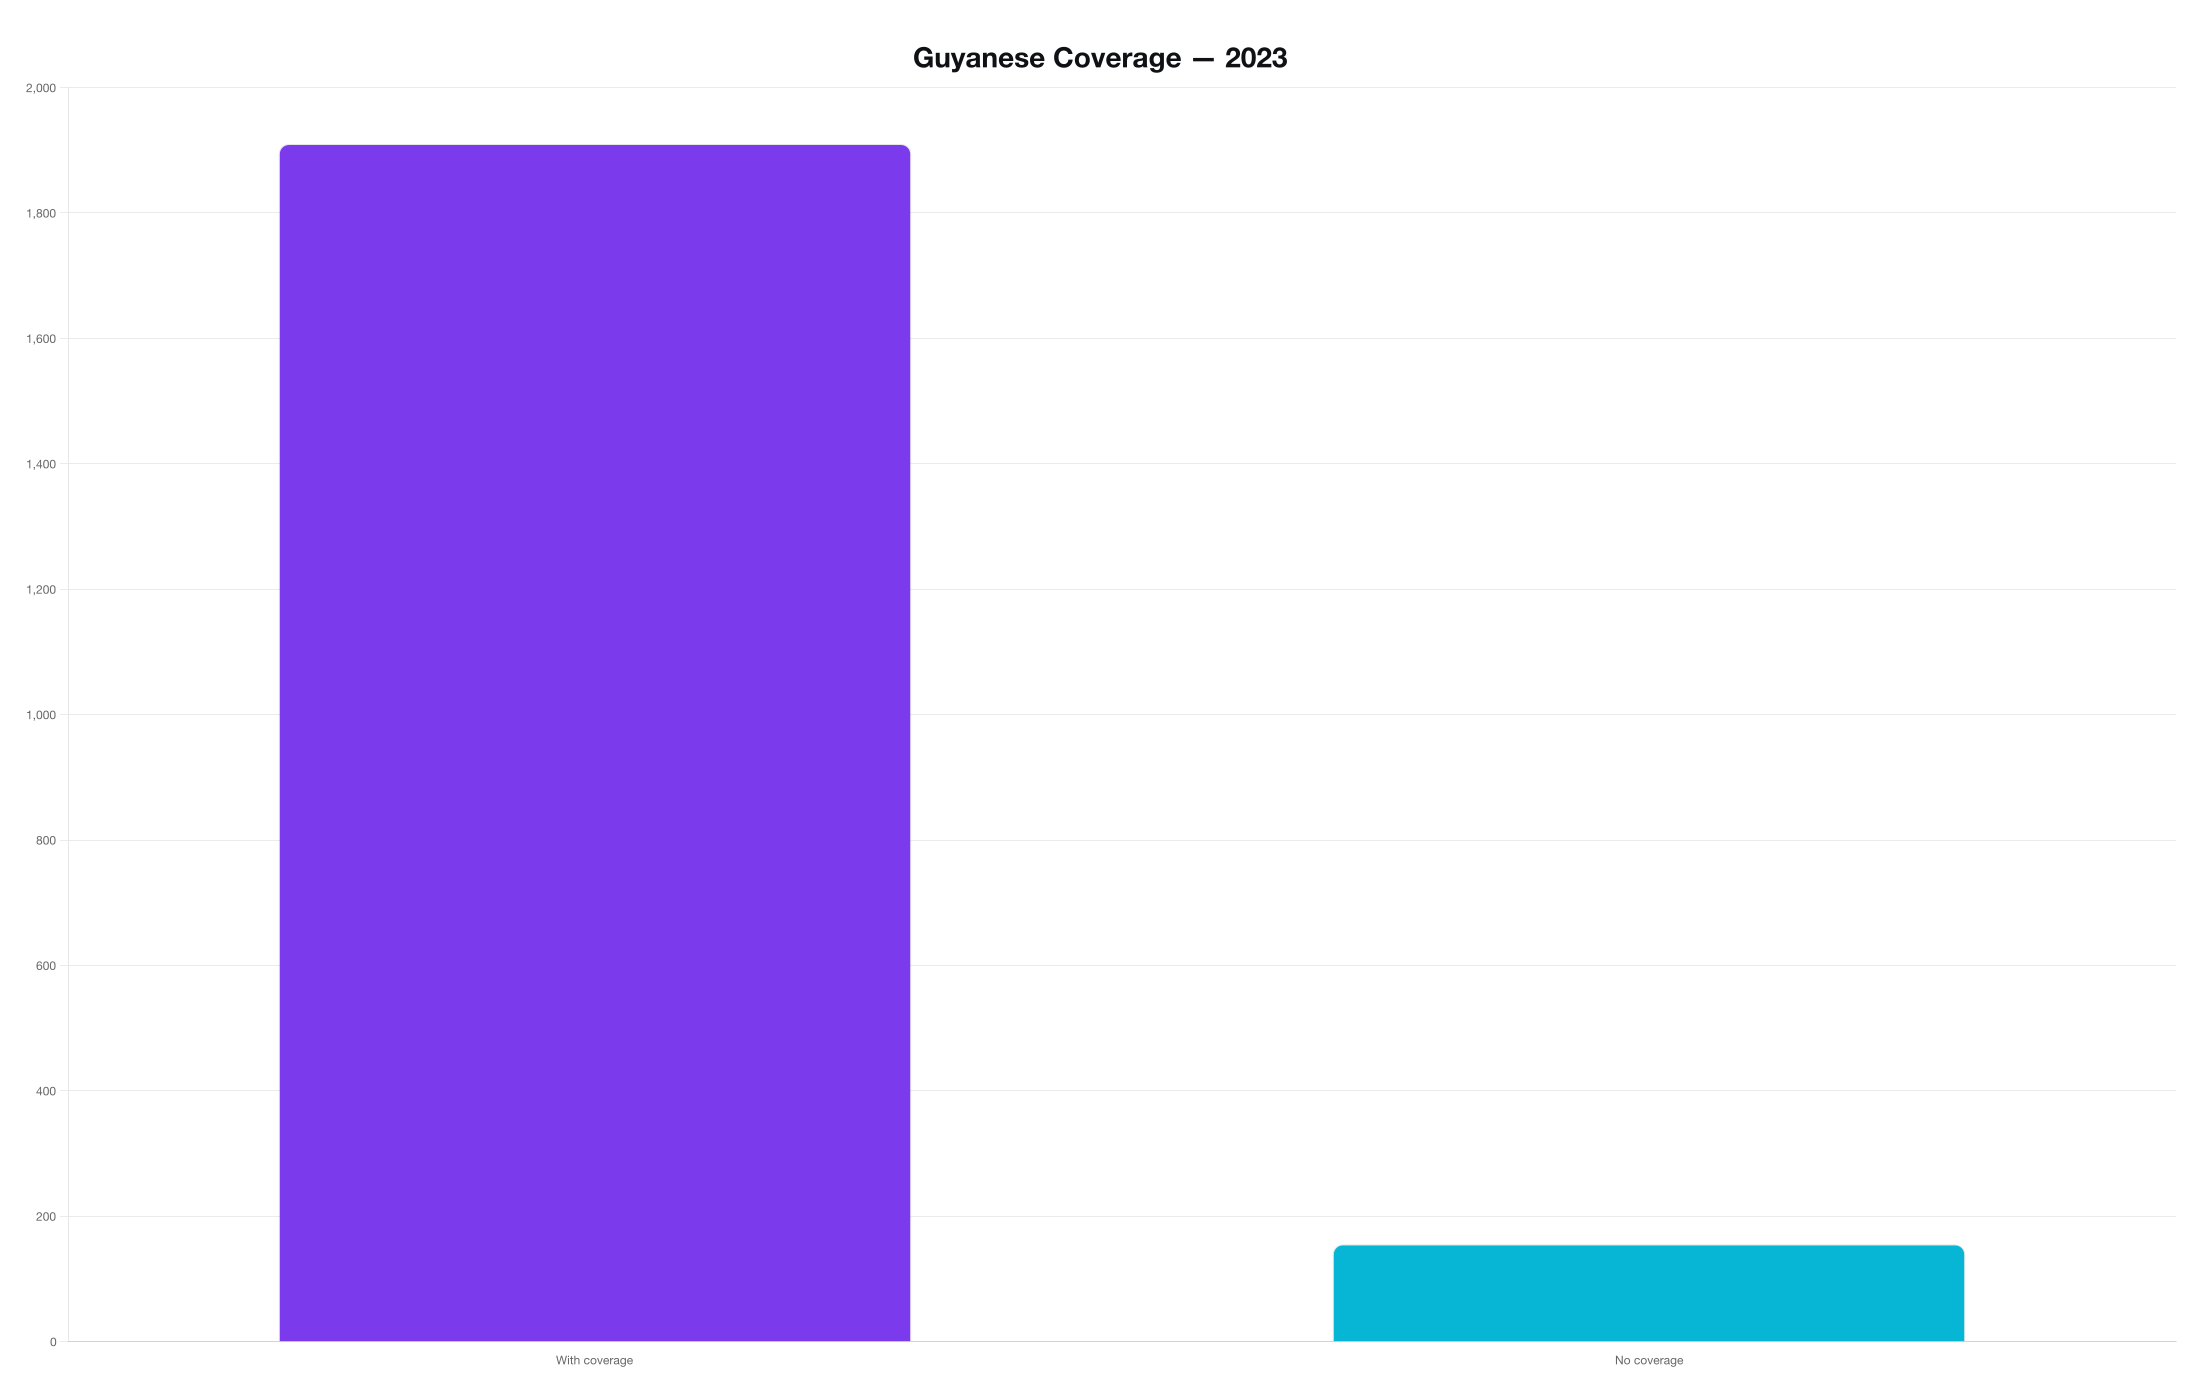
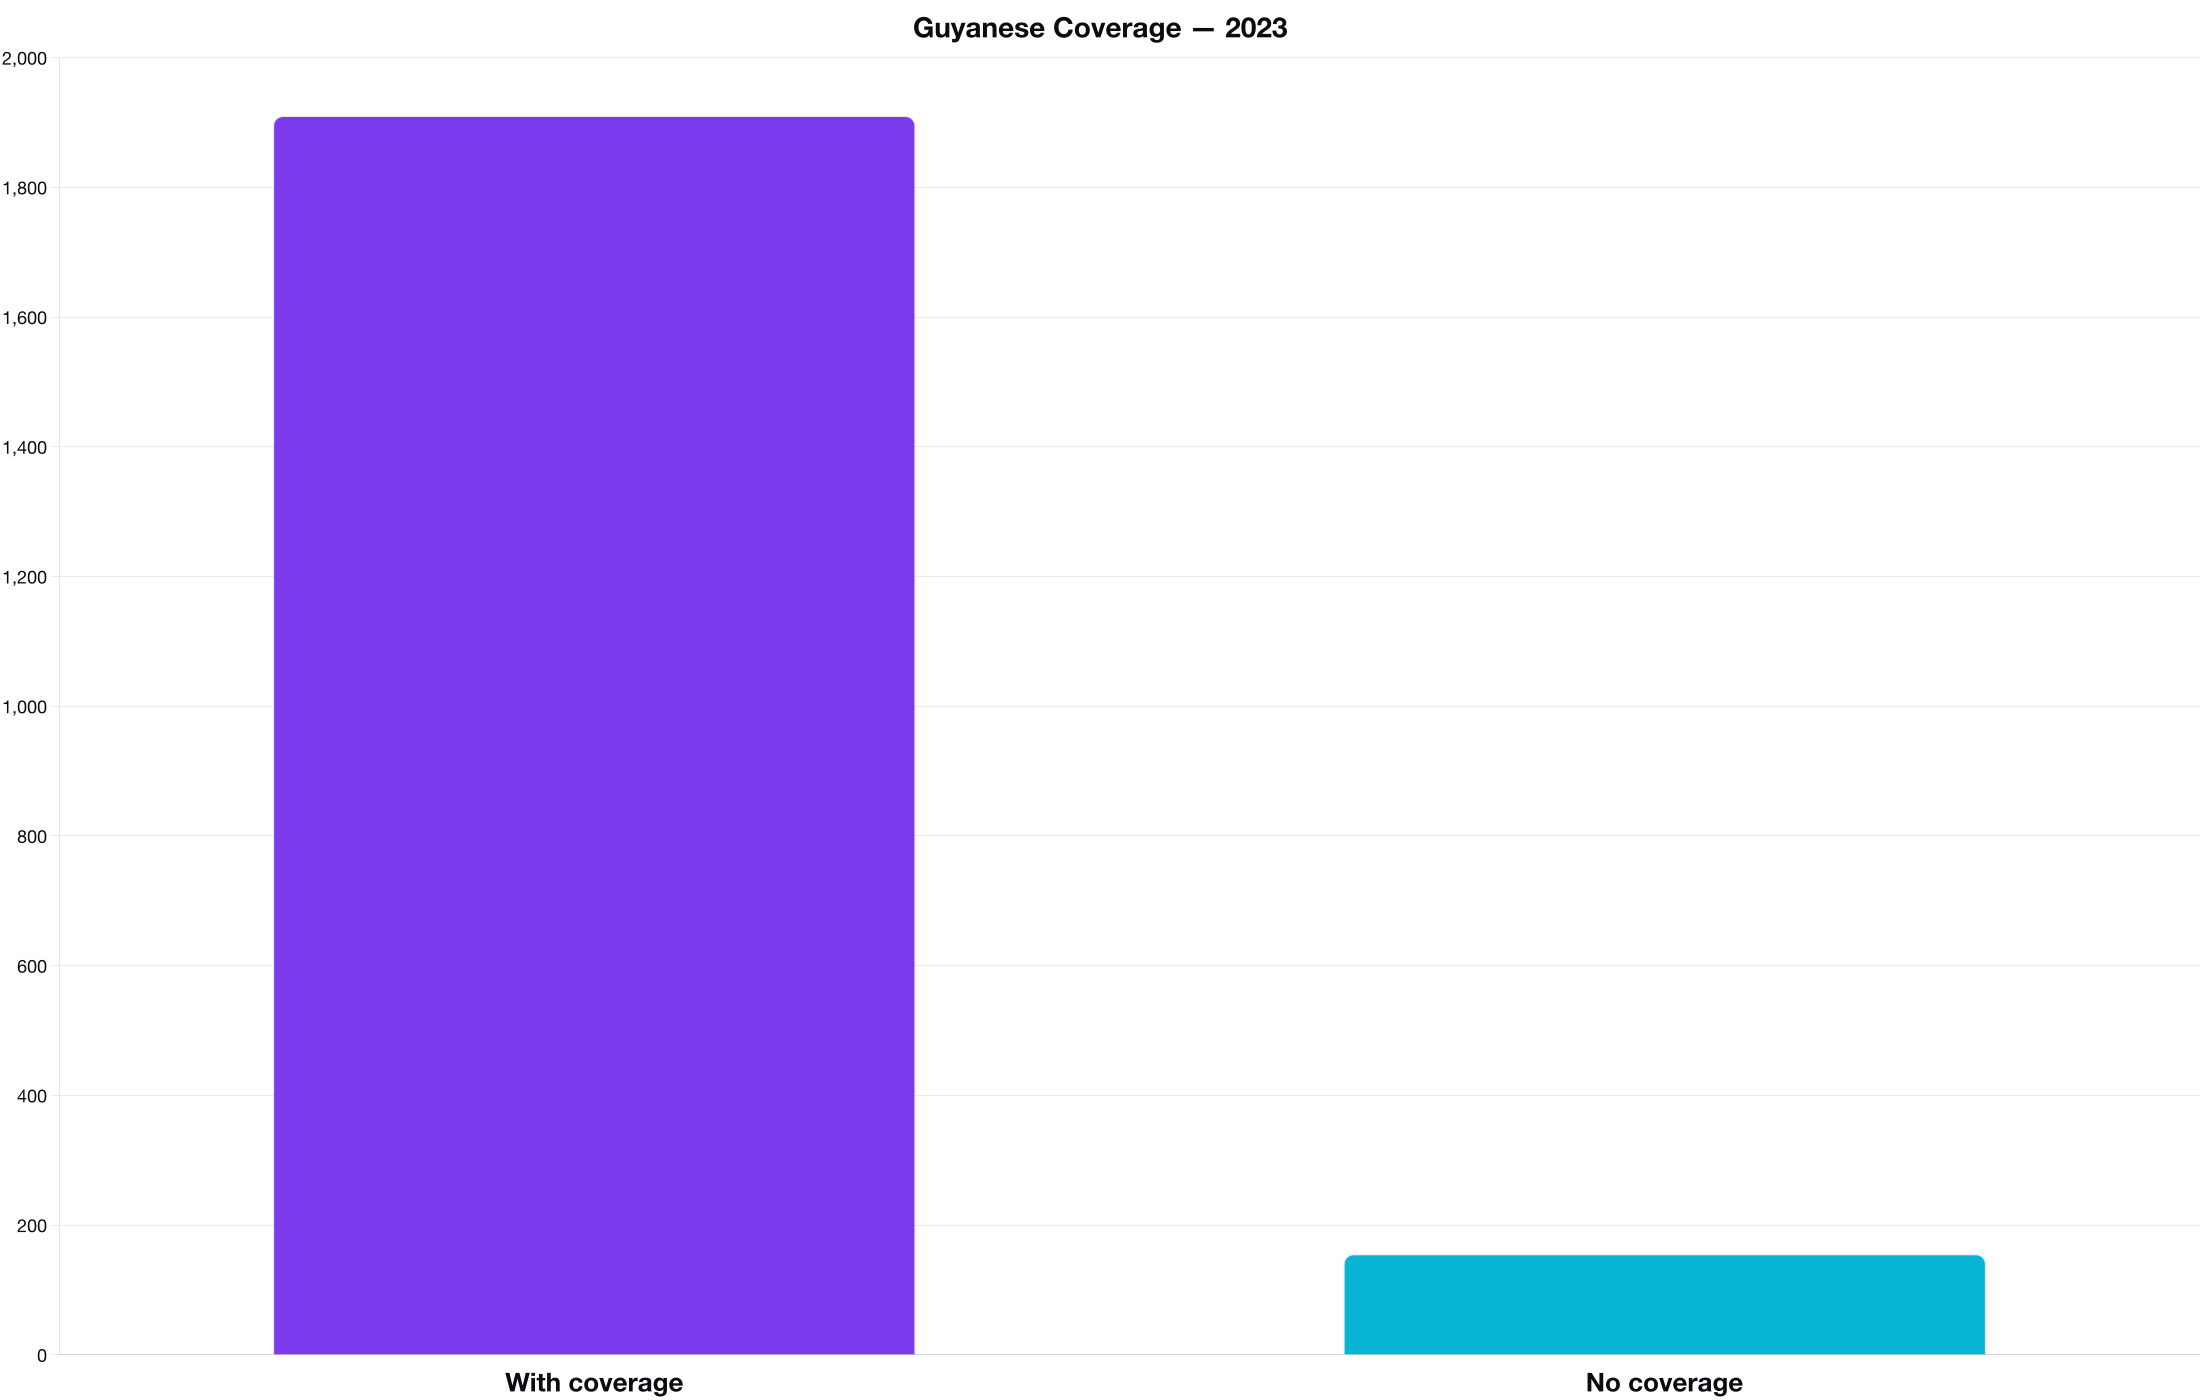
moregraphs

diff --git a/economy_healthcare/outputs/graphsinjs/make-charts.js b/economy_healthcare/outputs/graphsinjs/make-charts.js
@@ -1,4 +1,7 @@
-// make-charts.js  (ESM version for "type":"module")
+// make-charts.js — ESM (works with "type":"module")
+// Generates high-res, transparent PNG bar charts for three CSVs (Canva-ready)
+// Now with MUCH larger axis labels (category tick labels) without changing image size.
+
 import fs from "fs";
 import path from "path";
 import { fileURLToPath } from "url";
@@ -7,14 +10,22 @@ import { ChartJSNodeCanvas } from "chartjs-node-canvas";
 import Chart from "chart.js/auto";
 import ChartDataLabels from "chartjs-plugin-datalabels";
 
-// Register plugin for Chart.js v4
+// --- Register plugins & set dark text defaults ---
 Chart.register(ChartDataLabels);
+const TEXT = "#0b0c10"; // dark text everywhere
+Chart.defaults.color = TEXT;
+Chart.defaults.font.family =
+  'Inter, -apple-system, system-ui, "Segoe UI", Roboto, "Helvetica Neue", Arial';
 
-// Resolve this file's folder
+// >>> New: font sizes just for axis labels <<<
+const CAT_TICK_FONT_SIZE = 26; // category-axis tick labels (the labels beside/under each bar)
+const VAL_TICK_FONT_SIZE = 18; // value-axis tick labels (numbers on the scale)
+
+// --- Paths ---
 const __filename = fileURLToPath(import.meta.url);
 const __dirname = path.dirname(__filename);
 
-// ---- INPUT FILES (put your CSVs next to this script, or change paths) ----
+// Put your CSVs next to this script or edit these paths:
 const FILES = [
   path.resolve(__dirname, "guyanese_insurance_mix_2023.csv"),
   path.resolve(__dirname, "guyanese_coverage_2023.csv"),
@@ -23,57 +34,88 @@ const FILES = [
 
 // Optional per-file overrides (title + orientation)
 const FILE_CONFIG = [
-  { match: /insurance_mix/i, title: "Guyanese Insurance Mix — 2023", indexAxis: "y" },
-  { match: /coverage/i,      title: "Guyanese Coverage — 2023",      indexAxis: "x" },
-  { match: /occupations/i,   title: "Top Occupations — Guyanese (2023)", indexAxis: "y" },
+  { match: /insurance_mix/i, title: "Guyanese Insurance Mix — 2023", indexAxis: "y" }, // horizontal
+  { match: /coverage/i,      title: "Guyanese Coverage — 2023",      indexAxis: "x" }, // vertical
+  { match: /occupations/i,   title: "Top Occupations — Guyanese (2023)", indexAxis: "y" }
 ];
 
-// ---- OUTPUT DIR ----
+// Output directory
 const OUT_DIR = path.resolve(__dirname, "out");
 if (!fs.existsSync(OUT_DIR)) fs.mkdirSync(OUT_DIR);
 
-// ---- Visuals ----
-const PALETTE = ["#7C3AED","#06B6D4","#22C55E","#F59E0B","#EC4899",
-                 "#10B981","#A855F7","#14B8A6","#F97316","#6366F1",
-                 "#84CC16","#FB7185"];
-const BASE_W = 2200; // high-res, Canva-ready
-const BASE_H = 1400;
+// --- Visuals / layout ---
+const PALETTE = [
+  "#7C3AED","#06B6D4","#22C55E","#F59E0B","#EC4899",
+  "#10B981","#A855F7","#14B8A6","#F97316","#6366F1",
+  "#84CC16","#FB7185"
+];
+const BASE_W = 2200;  // width in px (hi-res)
+const BASE_H = 1400;  // base height; horizontal charts grow with #bars
 
+// --- Helpers ---
 const fmtThousands = (x) => {
-  const n = Number(x); if (Number.isNaN(n)) return "";
-  return Number.isInteger(n) ? n.toLocaleString() : n.toLocaleString(undefined, { maximumFractionDigits: 1 });
+  const n = Number(x);
+  if (Number.isNaN(n)) return "";
+  return Number.isInteger(n)
+    ? n.toLocaleString()
+    : n.toLocaleString(undefined, { maximumFractionDigits: 1 });
 };
 
 function detectColumns(headers, rows) {
   const low = headers.map(h => h.toLowerCase());
   const catHints = ["category","label","name","segment","group","type","occupation","coverage","insurance","plan","class"];
   const valHints = ["value","count","number","total","amount","percent","percentage","share","rate"];
+
   let cat = null, val = null;
-  for (const h of catHints){ const i=low.findIndex(x=>x.includes(h)); if(i!==-1){cat=headers[i]; break;} }
-  for (const h of valHints){ const i=low.findIndex(x=>x.includes(h)); if(i!==-1){val=headers[i]; break;} }
-  if (!cat) { outer: for (const h of headers){ for (const r of rows){
-      const v=r[h]; if (v!=null && v!==""){ if (isNaN(parseFloat(v))){ cat=h; break outer; } } } } }
-  if (!val) {
-    let best={ col:null, sum:-Infinity };
-    for (const h of headers){
-      let s=0, ok=false;
-      for (const r of rows){ const v=parseFloat(r[h]); if(!isNaN(v)){ ok=true; s+=Math.abs(v); } }
-      if (ok && s>best.sum) best={ col:h, sum:s };
+
+  for (const h of catHints) {
+    const i = low.findIndex(x => x.includes(h));
+    if (i !== -1) { cat = headers[i]; break; }
+  }
+  for (const h of valHints) {
+    const i = low.findIndex(x => x.includes(h));
+    if (i !== -1) { val = headers[i]; break; }
+  }
+
+  if (!cat) { // first non-numeric column
+    outer: for (const h of headers) {
+      for (const r of rows) {
+        const v = r[h];
+        if (v != null && v !== "") {
+          if (isNaN(parseFloat(v))) { cat = h; break outer; }
+        }
+      }
+    }
+  }
+
+  if (!val) { // numeric column with largest magnitude sum
+    let best = { col: null, sum: -Infinity };
+    for (const h of headers) {
+      let s = 0, ok = false;
+      for (const r of rows) {
+        const v = parseFloat(r[h]);
+        if (!isNaN(v)) { ok = true; s += Math.abs(v); }
+      }
+      if (ok && s > best.sum) best = { col: h, sum: s };
     }
     val = best.col;
   }
-  if ((!cat||!val) && headers.length===2){
-    const [a,b]=headers;
+
+  if ((!cat || !val) && headers.length === 2) {
+    const [a,b] = headers;
     const aNum = rows.some(r => !isNaN(parseFloat(r[a])));
     const bNum = rows.some(r => !isNaN(parseFloat(r[b])));
-    if (aNum && !bNum) { val=a; cat=b; }
-    else if (bNum && !aNum) { val=b; cat=a; }
+    if (aNum && !bNum) { val = a; cat = b; }
+    else if (bNum && !aNum) { val = b; cat = a; }
   }
-  if (!cat || !val) throw new Error("Could not infer category/value columns.");
+
+  if (!cat || !val) {
+    throw new Error("Could not infer category/value columns. Rename columns (e.g., 'occupation' and 'percent').");
+  }
   return { cat, val };
 }
 
-function isPercent(values, valName="") {
+function isPercent(values, valName = "") {
   const hint = /percent|percentage|share|rate/i.test(valName);
   const fin = values.filter(Number.isFinite);
   if (!fin.length) return hint;
@@ -81,14 +123,15 @@ function isPercent(values, valName="") {
   return hint || (max <= 1 && min >= 0) || (hint && max <= 100);
 }
 
-function wrapLabel(s, width=18) {
-  const words = String(s).split(/\s+/); let line="", out=[];
+function wrapLabel(s, width = 18) {
+  const words = String(s).split(/\s+/);
+  let line = "", out = [];
   for (const w of words) {
-    if ((line + " " + w).trim().length > width) { out.push(line.trim()); line=w; }
+    if ((line + " " + w).trim().length > width) { out.push(line.trim()); line = w; }
     else line = (line + " " + w).trim();
   }
   if (line) out.push(line);
-  return out; // Chart.js multi-line labels
+  return out; // Chart.js multi-line labels (array of lines)
 }
 
 function titleFrom(p) {
@@ -97,24 +140,48 @@ function titleFrom(p) {
 }
 
 function autoAxis(cats) {
-  const longest = cats.reduce((m, s) => Math.max(m, String(s||"").length), 0);
+  const longest = cats.reduce((m, s) => Math.max(m, String(s || "").length), 0);
   return (cats.length > 6 || longest > 14) ? "y" : "x"; // 'y' = horizontal bars
 }
 
 function sortHighLow(labels, values) {
-  const z = labels.map((l,i)=>({l,v:values[i]})).sort((a,b)=>b.v - a.v);
-  return { labels: z.map(z=>z.l), values: z.map(z=>z.v) };
+  const z = labels.map((l,i) => ({ l, v: values[i] })).sort((a,b) => b.v - a.v);
+  return { labels: z.map(z => z.l), values: z.map(z => z.v) };
 }
 
-async function renderChart({ title, labels, values, indexAxis, percentMode, outPath }) {
-  const H = indexAxis === "y" ? Math.min(2400, Math.max(BASE_H, 62*labels.length + 240)) : BASE_H;
+function readCSV(p) {
+  const txt = fs.readFileSync(p, "utf8");
+  const rows = parse(txt, { columns: true, skip_empty_lines: true });
+  if (!rows.length) throw new Error(`No rows in ${p}`);
+  return { headers: Object.keys(rows[0]), rows };
+}
 
-  // ChartJSNodeCanvas v5 works with Chart.js v4
-  const chartCanvas = new ChartJSNodeCanvas({ width: BASE_W, height: H, backgroundColour: "transparent" });
+// --- Rendering ---
+async function renderChart({ title, labels, values, indexAxis, percentMode, outPath }) {
+  // Grow height for many horizontal bars (image size stays constant otherwise)
+  const H = indexAxis === "y"
+    ? Math.min(2600, Math.max(BASE_H, 62 * labels.length + 240))
+    : BASE_H;
+
+  const chartCanvas = new ChartJSNodeCanvas({
+    width: BASE_W,
+    height: H,
+    backgroundColour: "transparent" // Canva-friendly
+  });
 
   const asPercent = percentMode;
   const displayValues = values.map(v => (asPercent && v <= 1 ? v * 100 : v));
   const valueFmt = v => asPercent ? `${v.toFixed(1)}%` : fmtThousands(v);
+
+  // >>> New: bigger padding on the category-axis side to fit larger tick labels (no image size change)
+  const PAD_LEFT_FOR_Y = 260;   // left pad for horizontal (y-index) charts (category labels on left)
+  const PAD_BOTTOM_FOR_X = 160; // bottom pad for vertical (x-index) charts (category labels below)
+
+  const baseLayout = { top: 30, right: 24, bottom: 30, left: 24 };
+  const layout =
+    indexAxis === "y"
+      ? { ...baseLayout, left: PAD_LEFT_FOR_Y }   // more room for big y-ticks
+      : { ...baseLayout, bottom: PAD_BOTTOM_FOR_X }; // more room for big x-ticks
 
   const config = {
     type: "bar",
@@ -134,28 +201,34 @@ async function renderChart({ title, labels, values, indexAxis, percentMode, outP
       responsive: false,
       maintainAspectRatio: false,
       indexAxis,
-      layout: { padding: { top: 30, right: 24, bottom: 30, left: 24 } },
+      layout,
       plugins: {
-        legend: { display: false },
+        legend: { display: false, labels: { color: TEXT } },
         title: {
-          display: true, text: title, color: "#0f1115",
-          font: { size: 28, weight: "700" }, padding: { top: 10, bottom: 14 }
+          display: true,
+          text: title,
+          color: TEXT,
+          font: { size: 28, weight: "700" },
+          padding: { top: 10, bottom: 14 }
         },
         tooltip: {
-          backgroundColor: "rgba(17,18,24,.95)",
-          borderColor: "rgba(255,255,255,.08)",
+          backgroundColor: "rgba(255,255,255,0.92)",
+          titleColor: TEXT,
+          bodyColor: TEXT,
+          footerColor: TEXT,
+          borderColor: "rgba(0,0,0,0.12)",
           borderWidth: 1,
           displayColors: false,
           callbacks: {
-            title: (items) => (items?.[0]?.label || "").replace(/\n/g," "),
+            title: (items) => (items?.[0]?.label || "").replace(/\n/g, " "),
             label: (item) => valueFmt(indexAxis === "y" ? item.parsed.x : item.parsed.y)
           }
         },
         datalabels: {
-          color: "#0B0C10",
-          backgroundColor: "rgba(255,255,255,0.85)",
+          color: TEXT,                             // value text stays dark
+          backgroundColor: "rgba(255,255,255,0.85)", // set to 'transparent' to remove pill
           borderRadius: 6,
-          padding: { top:4,right:6,bottom:4,left:6 },
+          padding: { top: 4, right: 6, bottom: 4, left: 6 },
           font: { weight: "600" },
           align: indexAxis === "y" ? "right" : "end",
           anchor: "end",
@@ -163,9 +236,34 @@ async function renderChart({ title, labels, values, indexAxis, percentMode, outP
           formatter: (v) => valueFmt(v)
         }
       },
+      // >>> Bigger tick font on the category axis; value axis uses a slightly smaller size
       scales: indexAxis === "y"
-        ? { x: { grid: { color: "rgba(0,0,0,0.08)" }, ticks: { callback: valueFmt } }, y: { grid: { display:false } } }
-        : { x: { grid: { display:false } }, y: { grid: { color: "rgba(0,0,0,0.08)" }, ticks: { callback: valueFmt } } }
+        ? {
+            // Horizontal bars: x = value axis, y = category axis
+            x: {
+              grid: { color: "rgba(0,0,0,0.08)" },
+              ticks: { color: TEXT, font: { size: VAL_TICK_FONT_SIZE }, callback: valueFmt }
+            },
+            y: {
+              grid: { display: false },
+              ticks: { color: TEXT, font: { size: CAT_TICK_FONT_SIZE, weight: "700" } } // BIG category labels
+            }
+          }
+        : {
+            // Vertical bars: x = category axis, y = value axis
+            x: {
+              grid: { display: false },
+              ticks: {
+                color: TEXT,
+                font: { size: CAT_TICK_FONT_SIZE, weight: "700" } // BIG category labels
+                // labels are multi-line arrays already; no rotation needed
+              }
+            },
+            y: {
+              grid: { color: "rgba(0,0,0,0.08)" },
+              ticks: { color: TEXT, font: { size: VAL_TICK_FONT_SIZE }, callback: valueFmt }
+            }
+          }
     }
   };
 
@@ -173,16 +271,14 @@ async function renderChart({ title, labels, values, indexAxis, percentMode, outP
   fs.writeFileSync(outPath, buffer);
 }
 
-function readCSV(p) {
-  const txt = fs.readFileSync(p, "utf8");
-  const rows = parse(txt, { columns: true, skip_empty_lines: true });
-  if (!rows.length) throw new Error(`No rows in ${p}`);
-  return { headers: Object.keys(rows[0]), rows };
-}
-
+// --- Main ---
 (async () => {
   for (const csvPath of FILES) {
-    if (!fs.existsSync(csvPath)) { console.warn(`⚠ Missing: ${csvPath}`); continue; }
+    if (!fs.existsSync(csvPath)) {
+      console.warn(`⚠ Missing: ${csvPath}`);
+      continue;
+    }
+
     const { headers, rows } = readCSV(csvPath);
     const { cat, val } = detectColumns(headers, rows);
 
@@ -196,6 +292,7 @@ function readCSV(p) {
     let indexAxis = autoAxis(rawLabels);
     const percentMode = isPercent(values, val);
 
+    // Apply file-specific overrides
     for (const cfg of FILE_CONFIG) {
       if (cfg.match.test(path.basename(csvPath))) {
         if (cfg.title) title = cfg.title;
